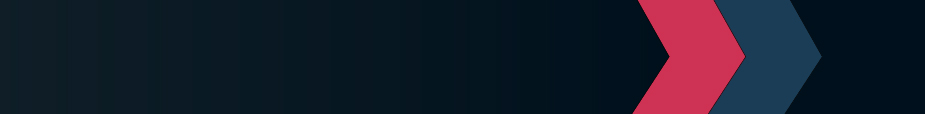
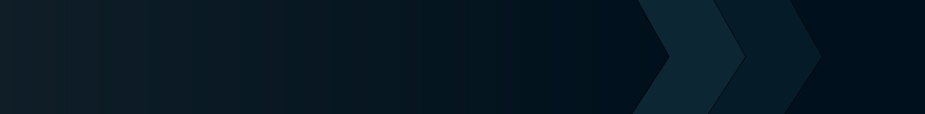
Homepage Navbar Update

Changed region(s): [[0.6659, 0.0, 0.9081, 1.0]]

diff --git a/solar car website/index.html b/solar car website/index.html
@@ -127,6 +127,40 @@
         text-decoration: underline;
         transform: translateY(-0.25vw);
     }
+    .join-navbar-button{
+        background-color: white;
+        color: rgb(48,48,48);
+        border: 0.25vw solid white;
+        padding: 0.5vw;
+        width: 7.5vw;
+        margin-left: 1vw;
+        font-family: sf-pro;
+        font-weight: normal;
+        font-size: 1.25vw;
+        border-radius: 0.5vw !important;
+    }
+    .join-navbar-button:hover{
+        cursor: pointer;
+        opacity: 0.75;
+        transition: opacity 0.25s linear;
+    }
+    .contact-navbar-button:hover{
+        cursor: pointer;
+        opacity:0.75;
+        transition: opacity 0.25s linear;
+    }
+    .contact-navbar-button{
+        background: none;
+        border: 0.25vw solid white;
+        color: white;
+        padding: 0.5vw;
+        width: 7.5vw;
+        margin-left: 1vw;
+        font-family: sf-pro;
+        font-weight: normal;
+        font-size: 1.25vw;
+        border-radius: 0.5vw !important;
+    }
     .navigation{
         position: fixed;
         width: 100%;
@@ -134,7 +168,8 @@
         display: flex;
         justify-content: space-between;
         align-items: center;
-        background-color: rgb(48, 48, 48);
+        background-image: url("images/navbar-background-pc.jpg");
+        background-size: 100% 100%;
         transition: transform 1s ease;
     }
     .navigation.hidden{
@@ -269,6 +304,8 @@
         }
         .navigation{
             height: 12vw;
+            background-image: url("images/navbar-background-mobile.jpg");
+            background-size: 100% 100%;
         }
         .navigation.hidden{
             transform: translateY(-12vw) !important;
@@ -280,6 +317,42 @@
             font-size: 4vw;
             margin: 0px 0px 0px 2vw;
             letter-spacing: 0.7vw;
+        }
+        .join-navbar-button{
+            background-color: white;
+            color: rgb(48,48,48);
+            border: 0.5vw solid white;
+            padding: 1vw;
+            width: 30vw;
+            margin-right: 0;
+            font-family: sf-pro;
+            font-weight: normal;
+            font-size: 5vw;
+            border-radius: 1vw !important;
+            align-self: center;
+        }
+        .join-navbar-button:hover{
+            cursor: pointer;
+            opacity: 0.75;
+            transition: opacity 0.25s linear;
+        }
+        .contact-navbar-button:hover{
+            cursor: pointer;
+            opacity:0.75;
+            transition: opacity 0.25s linear;
+        }
+        .contact-navbar-button{
+            background: none;
+            border: 0.5vw solid white;
+            color: white;
+            padding: 1vw;
+            width: 30vw;
+            margin-right: 0;
+            font-family: sf-pro;
+            font-weight: normal;
+            font-size: 5vw;
+            border-radius: 1vw !important;
+            align-self: center;
         }
         .heroBanner{
             margin-top: 12vw;
@@ -381,6 +454,11 @@
             flex-direction: column;
             font-size: 4vw;
             gap: 5vw;
+            padding-left: 0;
+        }
+        .links ul li{
+            display: flex;
+            align-self: center;
         }
         .links{
             flex-direction: column;
@@ -463,6 +541,9 @@
             font-size: 2vw;
             margin: 0px 0px 0px 1vw;
             letter-spacing: 0.35vw;
+        }
+        .links{
+            margin-right: 1.5vw;
         }
         .links ul li{
             margin: 1vw;
@@ -624,8 +705,8 @@
                 <li><a href = "media.html">Media</a></li>
                 <li><a href = "donate.html">Donate</a></li>
                 <li><a href = "faq.html">FAQ</a></li>
-                <li><a href = "join.html">Join</a></li>
-                <li><a href = "contact.html">Contact</a></li>
+                <button class = "join-navbar-button" onclick = "location.assign('join.html')">Join</button>
+                <button class = "contact-navbar-button" onclick = "location.assign('contact.html')">Contact</button>
             </ul>
         </div>
     </div>
